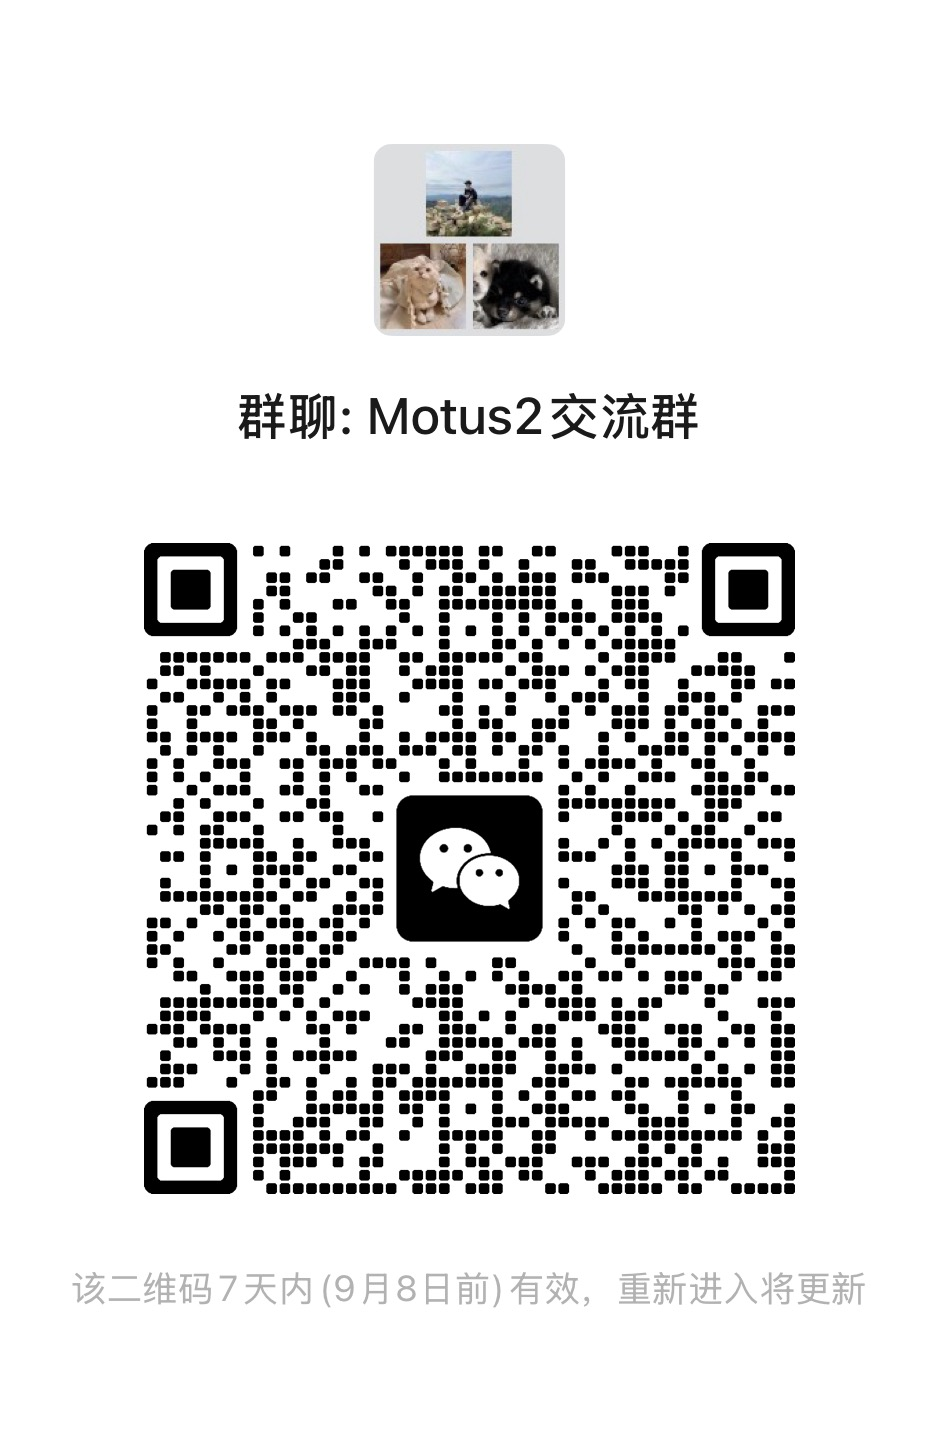
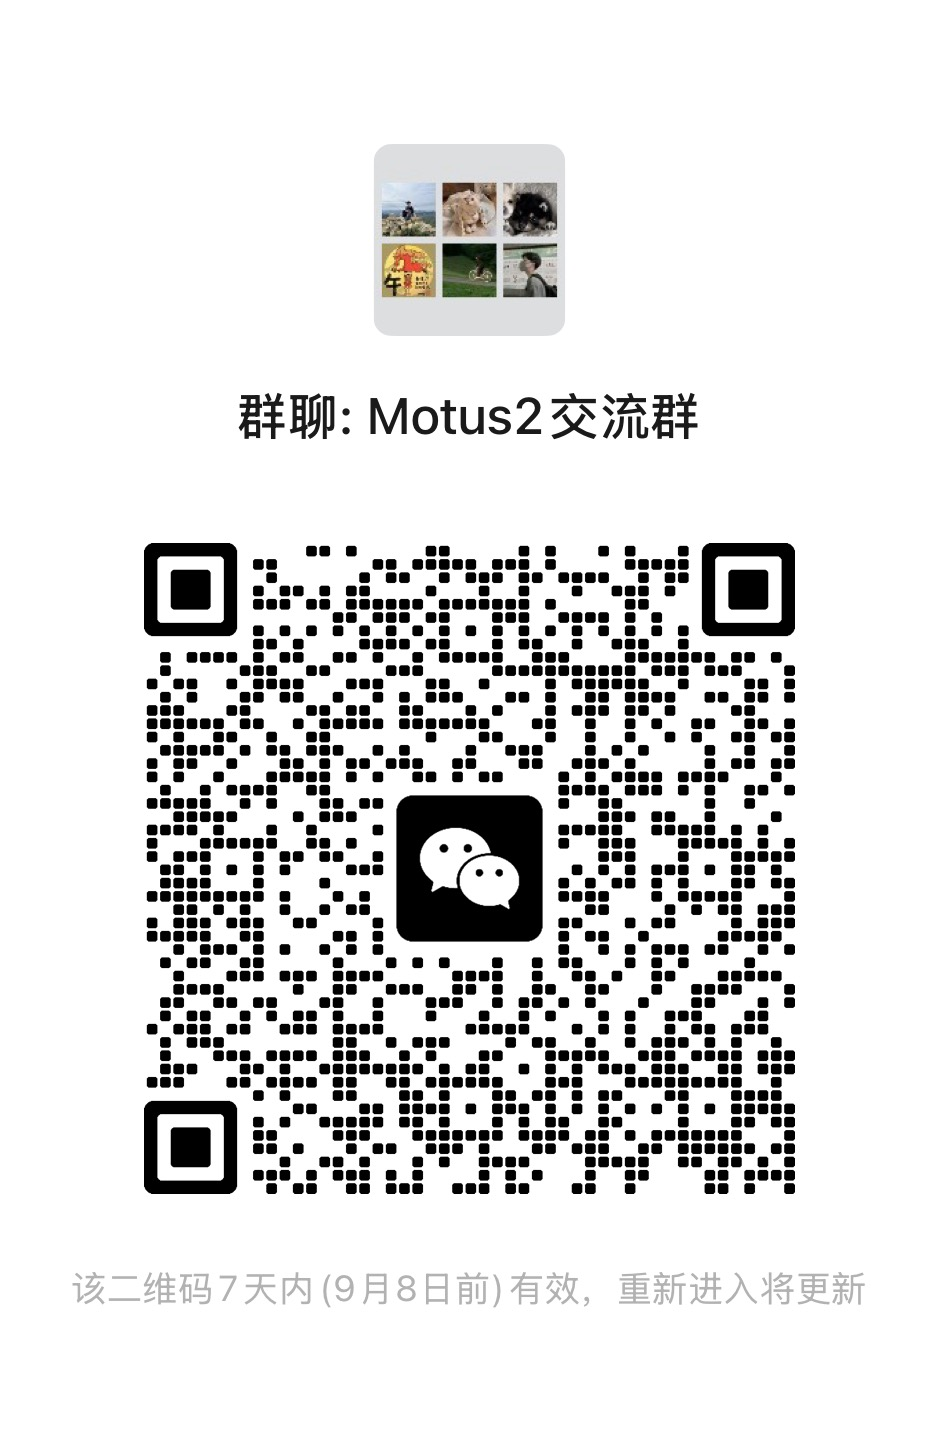
Refresh Motus2 WeChat group QR code

Changed region(s): [[0.1544, 0.3711, 0.8647, 0.8351], [0.4015, 0.0928, 0.6177, 0.2474]]

diff --git a/motus2/index.html b/motus2/index.html
@@ -110,7 +110,7 @@
         <span class="external-link button button--soon is-normal is-rounded is-light" aria-disabled="true">
           <span class="icon">🤗</span><span>Model (Soon)</span>
         </span>
-        <a href="assets/img/wechat_group.png?v=20260901-1" class="external-link button is-normal is-rounded is-light" target="_blank" rel="noreferrer">
+        <a href="assets/img/wechat_group.png?v=20260901-2" class="external-link button is-normal is-rounded is-light" target="_blank" rel="noreferrer">
           <span class="icon"><i class="fab fa-weixin"></i></span><span>WeChat Group</span>
         </a>
       </div>
